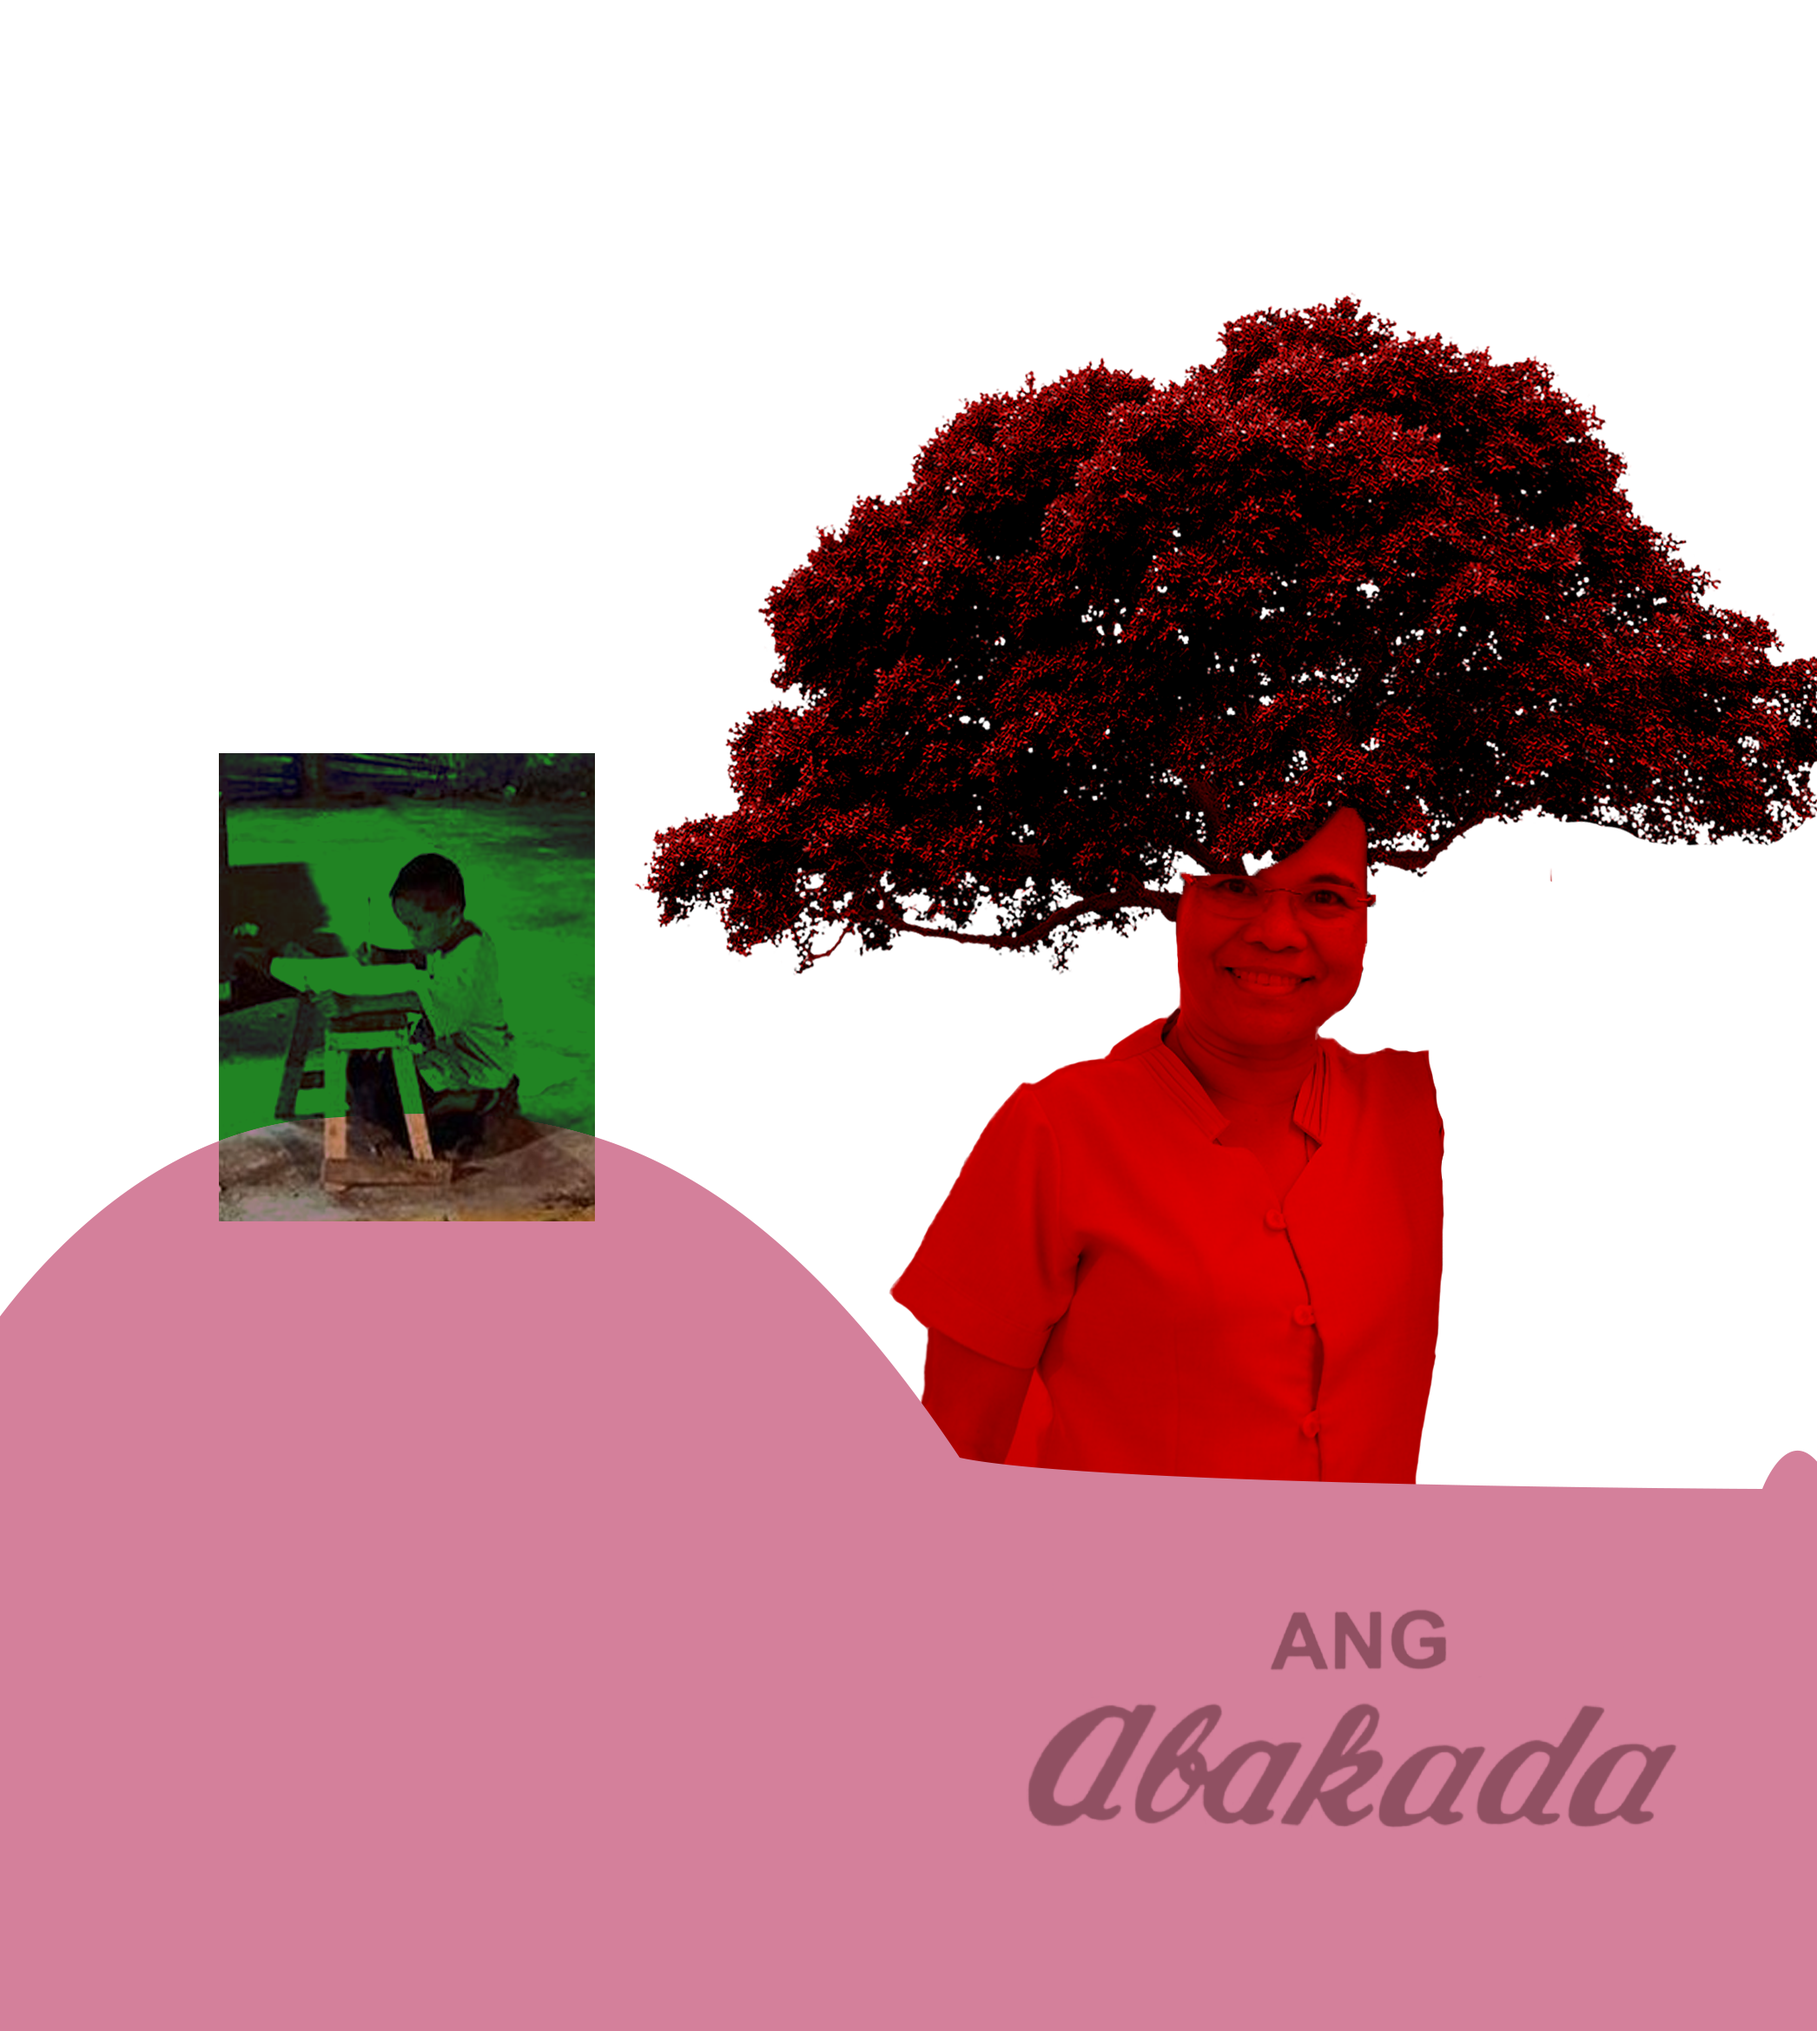
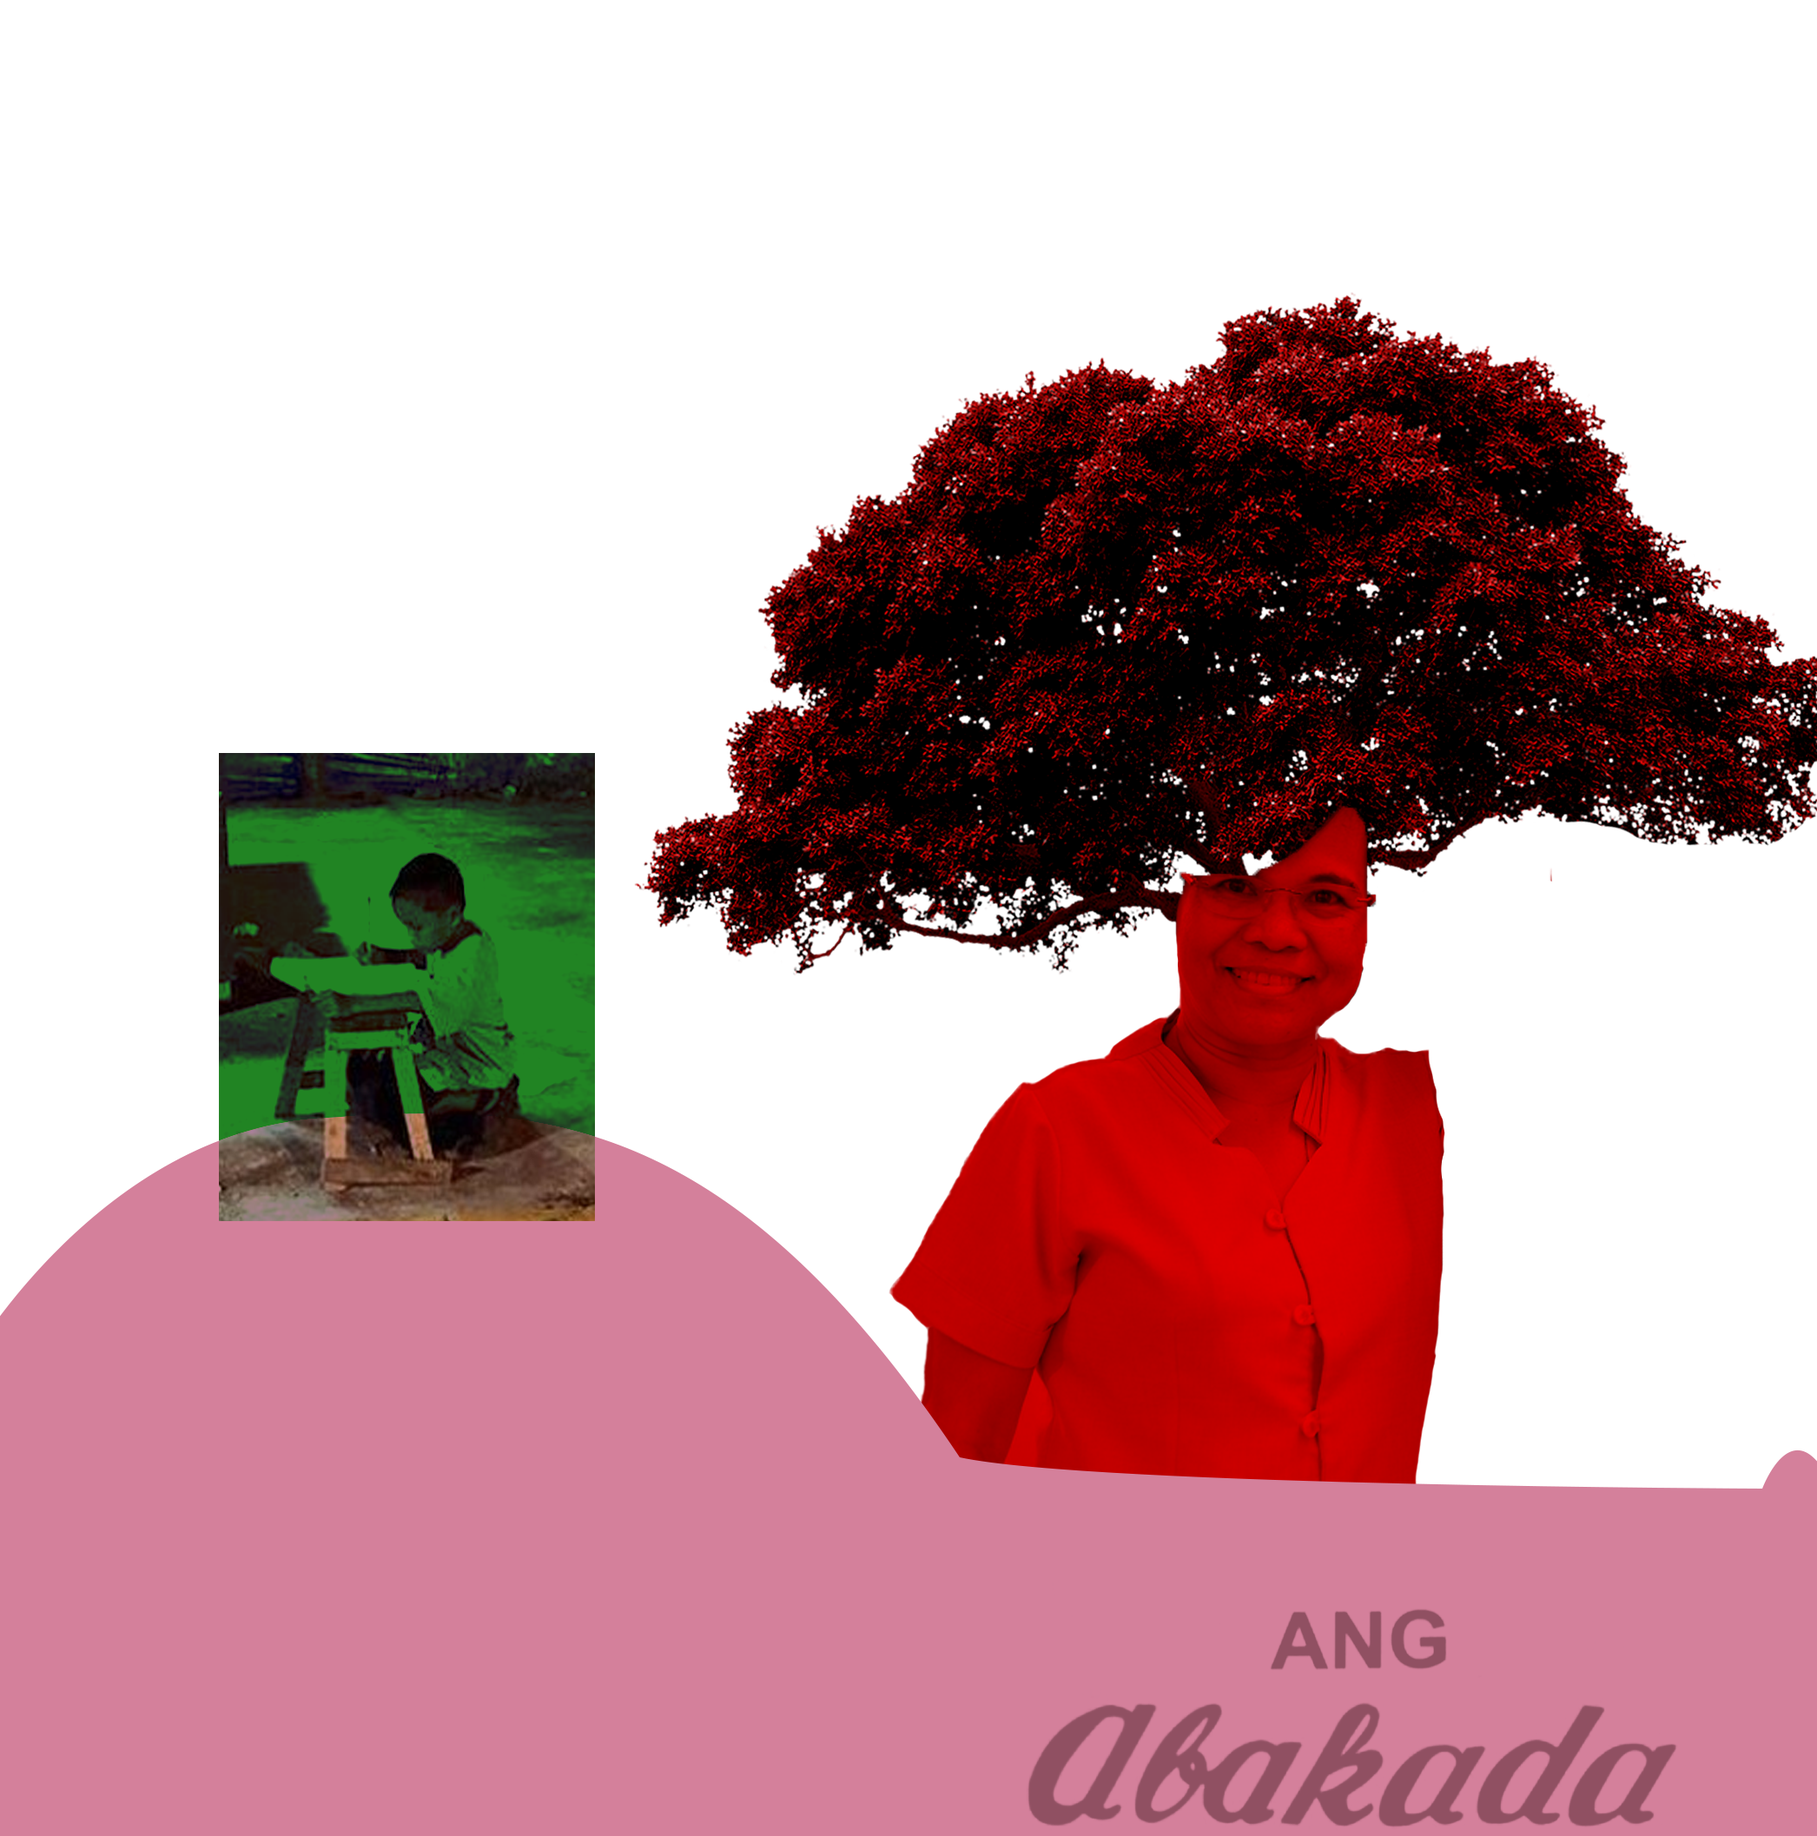
finalized chapter transitions

Changed region(s): [[0.0, 0.1249, 1.0, 0.9991]]

diff --git a/index.html b/index.html
@@ -172,14 +172,14 @@
             say that education has changed us for the better.
           </p>
           <p class="excerpt4 inter_font">
-            So, how has this word changed our lives
+            So, how has this word changed our lives? <span class="hidden">aslkdhdaskl alksdjasl lkasjdlkasj as;ldkasl; as;ldjk asl;kda lkasdlkas</span>
           </p>
           <!-- </div> -->
         </div>
         <div class="spacer1"></div>
       </div>
     </article>
-    <div class="separator4"></div>
+    <div class="separator4_1"></div>
     <div class="animation1">
       <div class="dot_animation1"></div> 
       <img src="./img/armpad.png" alt="" class="armpad">
@@ -200,14 +200,14 @@
             xmlns="http://www.w3.org/2000/svg"
             xmlns:xlink="http://www.w3.org/1999/xlink"
             viewBox="0 0 271 271"
-            style="width: 15vw; animation: rotate 8s linear infinite">
+            style="width: 15vw; animation: rotate 8s linear infinite;z-index: 500;">
             <path
               fill-rule="evenodd"
               stroke="rgb(185, 35, 36)"
               stroke-width="0px"
               stroke-linecap="butt"
               stroke-linejoin="miter"
-              fill="rgb(239, 61, 93)"
+              fill="#040404"
               d="M130.194,0.888 C133.902,-0.211 137.849,-0.211 141.557,0.888 L204.293,19.476 C207.982,20.569 211.278,22.703 213.784,25.622 L256.693,75.591 C259.177,78.483 260.782,82.025 261.320,85.800 L270.661,151.359 C271.198,155.124 270.650,158.963 269.082,162.427 L241.833,222.637 C240.254,226.125 237.707,229.087 234.494,231.171 L179.438,266.874 C176.198,268.975 172.418,270.093 168.556,270.093 L103.195,270.093 C99.333,270.093 95.553,268.975 92.313,266.874 L37.257,231.171 C34.044,229.087 31.497,226.125 29.918,222.637 L2.669,162.427 C1.101,158.963 0.553,155.124 1.089,151.359 L10.431,85.800 C10.969,82.025 12.574,78.483 15.057,75.591 L57.967,25.622 C60.473,22.703 63.769,20.569 67.458,19.476 L130.194,0.888 Z" />
           </svg>
           <div class="num_wrapper">
@@ -215,7 +215,7 @@
           </div>
         </div>
       </div>
-      <span class="mar_font h2"
+      <span class="mar_font h2 black"
         ><a id="ch1">Understanding<br />the Problem</a></span
       >
       <div class="scroll_cards1">
@@ -271,7 +271,7 @@
               </div>
             </div>
           </div>
-          <span class="mar_font h2">Understanding<br />the Problem</span>
+          <span class="mar_font h2">INSIDE THE<br>CURRENT SYSTEM</span>
 
           <article class="chapter1_2">
             <div style="position: relative; overflow: visible">
@@ -302,7 +302,7 @@
                 </div>
               </div>
             </div>
-            <span class="mar_font h2">Understanding<br />the Problem</span>
+            <span class="mar_font h2">the problem<br />and its roots</span>
           </article>
           <article>
             <div class="block_question">
@@ -344,7 +344,7 @@
                     stroke-width="0px"
                     stroke-linecap="butt"
                     stroke-linejoin="miter"
-                    fill="rgb(239, 61, 93)"
+                    fill="rgb(243,112,40)"
                     d="M130.194,0.888 C133.902,-0.211 137.849,-0.211 141.557,0.888 L204.293,19.476 C207.982,20.569 211.278,22.703 213.784,25.622 L256.693,75.591 C259.177,78.483 260.782,82.025 261.320,85.800 L270.661,151.359 C271.198,155.124 270.650,158.963 269.082,162.427 L241.833,222.637 C240.254,226.125 237.707,229.087 234.494,231.171 L179.438,266.874 C176.198,268.975 172.418,270.093 168.556,270.093 L103.195,270.093 C99.333,270.093 95.553,268.975 92.313,266.874 L37.257,231.171 C34.044,229.087 31.497,226.125 29.918,222.637 L2.669,162.427 C1.101,158.963 0.553,155.124 1.089,151.359 L10.431,85.800 C10.969,82.025 12.574,78.483 15.057,75.591 L57.967,25.622 C60.473,22.703 63.769,20.569 67.458,19.476 L130.194,0.888 Z" />
                 </svg>
                 <div class="num_wrapper">
@@ -385,7 +385,7 @@
                 </div>
               </div>
             </div>
-            <span class="mar_font h2">Understanding<br />the Problem</span>
+            <span class="mar_font h2">a 21st century <br>learning vision</span>
           </article>
           <article class="chapter2_2">
             <div style="position: relative; overflow: visible">
@@ -446,7 +446,7 @@
                     stroke-width="0px"
                     stroke-linecap="butt"
                     stroke-linejoin="miter"
-                    fill="rgb(239, 61, 93)"
+                    fill="rgb(210,127,154)"
                     d="M130.194,0.888 C133.902,-0.211 137.849,-0.211 141.557,0.888 L204.293,19.476 C207.982,20.569 211.278,22.703 213.784,25.622 L256.693,75.591 C259.177,78.483 260.782,82.025 261.320,85.800 L270.661,151.359 C271.198,155.124 270.650,158.963 269.082,162.427 L241.833,222.637 C240.254,226.125 237.707,229.087 234.494,231.171 L179.438,266.874 C176.198,268.975 172.418,270.093 168.556,270.093 L103.195,270.093 C99.333,270.093 95.553,268.975 92.313,266.874 L37.257,231.171 C34.044,229.087 31.497,226.125 29.918,222.637 L2.669,162.427 C1.101,158.963 0.553,155.124 1.089,151.359 L10.431,85.800 C10.969,82.025 12.574,78.483 15.057,75.591 L57.967,25.622 C60.473,22.703 63.769,20.569 67.458,19.476 L130.194,0.888 Z" />
                 </svg>
                 <div class="num_wrapper">
@@ -487,7 +487,7 @@
                 </div>
               </div>
             </div>
-            <span class="mar_font h2">Understanding<br />the Problem</span>
+            <span class="mar_font h2">Reforms reshape <br>the Future</span>
           </article>
           <article class="chapter3_2">
             <div style="position: relative; overflow: visible">
@@ -518,6 +518,7 @@
                 </div>
               </div>
             </div>
+            <span class="mar_font h2">it can be done:<br>just like the others</span>
             <div class="first-wrap">
               <div class="first-div"></div>
             </div>

diff --git a/css/styles.css b/css/styles.css
@@ -93,14 +93,15 @@ nav ul li a {
 }
 .h2 {
   font-size: 10vw;
-  color: var(--white);
   /* align-items: center; */
-  padding-top: 10vh;
+  padding-top: 15vh;
   display: flex; /* set display to flex */
   justify-content: center; /* center horizontally */
   align-items: center;
   text-align: center;
   color: var(--black);
+  letter-spacing: 0.1px;
+  text-transform: uppercase;
 }
 .navbar_logo {
   width: 5rem;
@@ -398,6 +399,7 @@ svg {
   line-height: 1.38;
   margin-bottom: 75%;
   margin-left: 30%;
+  z-index: 503;
 }
 .nav_num1_1_wrap {
   position: absolute; /* make the letter position:absolute */
@@ -422,6 +424,9 @@ svg {
   line-height: 1.38;
   margin-bottom: 18%;
   margin-left: 13%;
+}
+.hidden {
+  opacity: 0;
 }
 .nav_num2_1_wrap {
   position: absolute; /* make the letter position:absolute */
@@ -509,7 +514,13 @@ svg {
 .separator4 {
   height: 75vh;
   width: auto;
-  background-color: #218323;
+  background-color: #d4809b;
+  opacity: 1;
+}
+.separator4_1 {
+  height: 75vh;
+  width: auto;
+  background-color: rgb(33, 132, 35);
   opacity: 1;
 }
 .separator5 {
@@ -637,11 +648,13 @@ svg {
   position: absolute;
   margin-top: 20vw;
   margin-left: 30vw;
+  margin-bottom: 70vw;
+  margin-right: 30vw;
   z-index: 40;
 }
 .comp2 {
   position: absolute;
-  margin-top: 60vw;
+  margin-top: 62vw;
   margin-left: 10vw;
   z-index: 38;
 }
@@ -767,7 +780,6 @@ svg {
   width: 100%;
 }
 a {
-  color: #ffffff;
   text-decoration: none;
 }
 .jpean {
@@ -1751,14 +1763,15 @@ a {
 }
 .animation1 {
   position: relative;
-  height: 130vh;
+  height: 155vh;
   background-color: #218323;
 }
+
 .ch1_wallpaper {
   position: absolute;
   width: 100vw;
   height: auto;
-  z-index: 1;
+  z-index: 6;
 }
 .armpad {
   position: absolute;
